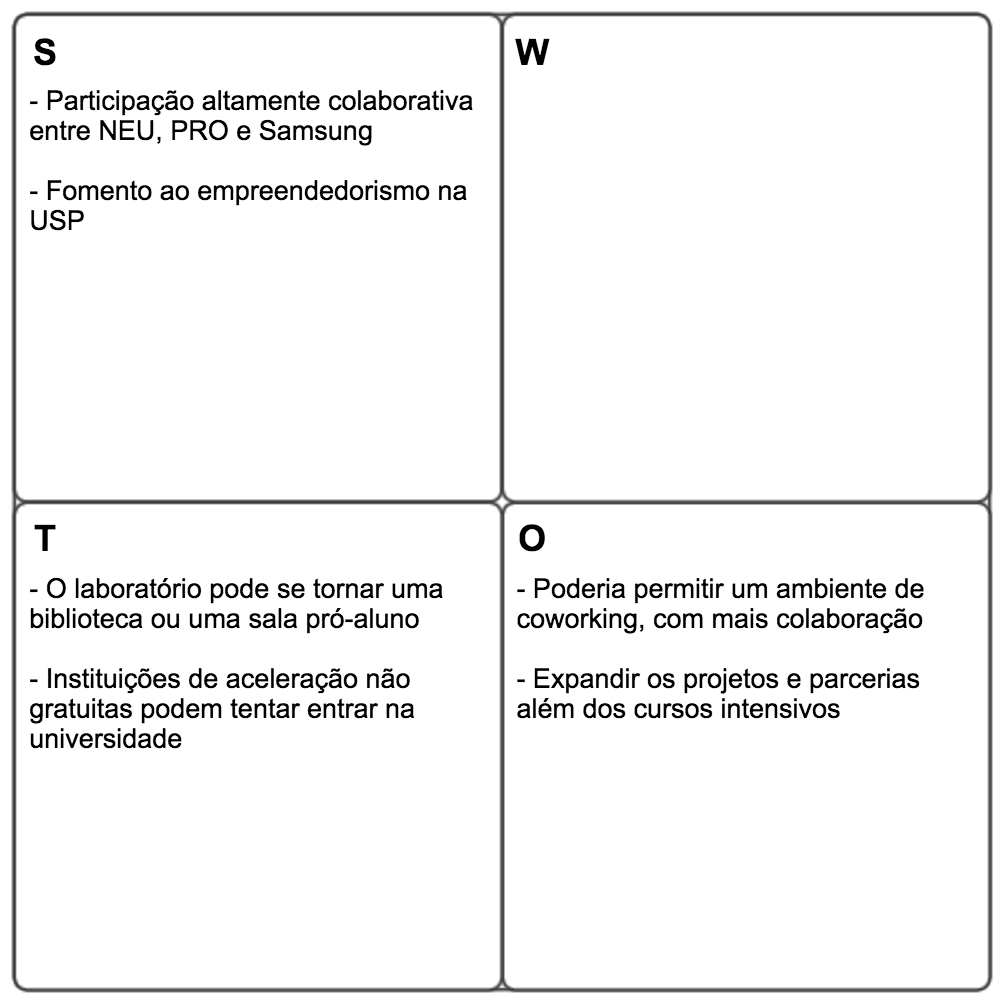
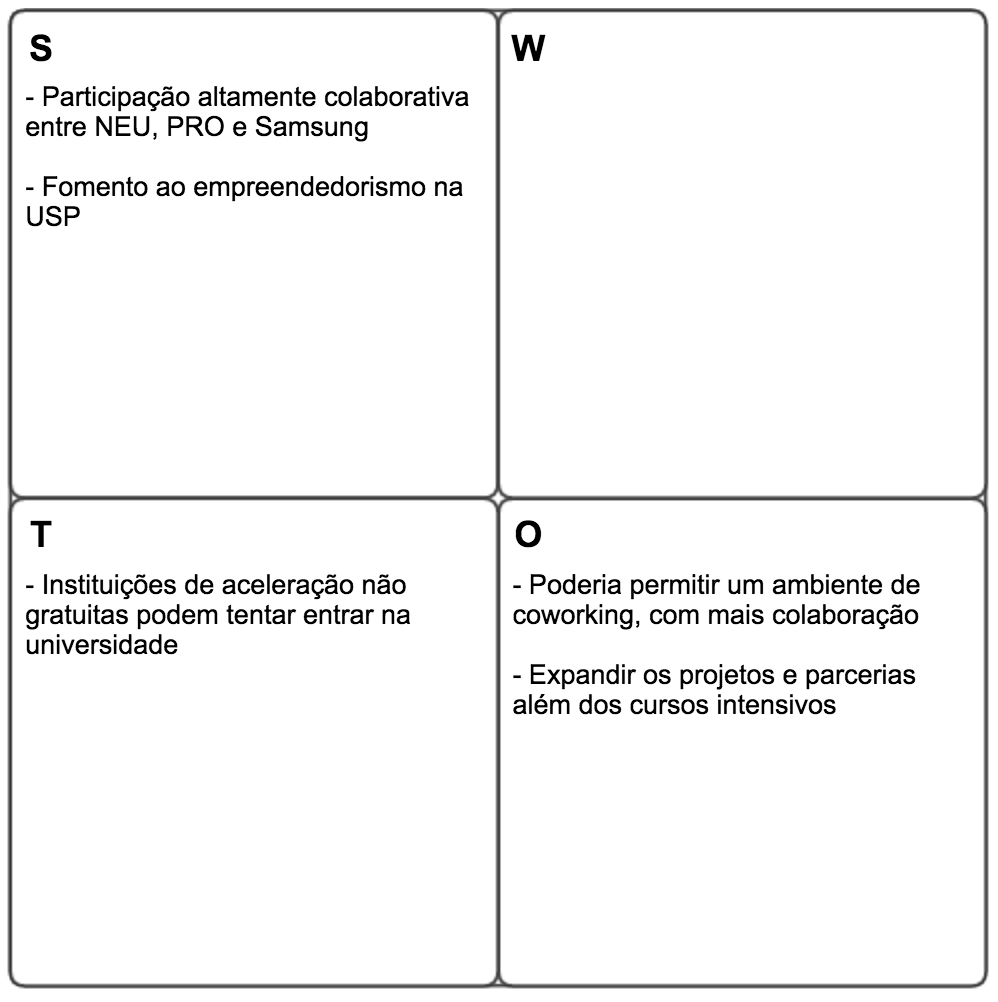
melhorada a definição de prioridades

Changed region(s): [[0.0, 0.0, 0.994, 0.99]]

diff --git a/propostas.tex b/propostas.tex
@@ -1,28 +1,64 @@
 \chapter{Propostas}
 \label{cha:propostas}
 
-Esse capítulo tem como base os elementos de desenvolvimento do programa Ocean levantados no capítulo anterior, e tem como objetivo definir e criar uma proposta de desenvolvimento para um deles. Embora todos os pontos sejam levados até a gestão PRO/Samsung, somente um deles será desenvolvido de forma a ser o suficiente para ilustrar o trabalho sem ultrapassar o seu propósito acadêmico.
+Esse capítulo tem como base as oportunidades, fraquezas e ameaças do programa Ocean levantados no capítulo anterior, e tem como objetivo definir e criar uma proposta de desenvolvimento para um deles. Embora todos os pontos sejam levados até a gestão PRO/Samsung, foram realizado um critério de priorização de forma a selecionar os mais relevantes para serem desenvolvidos.
 
-\section{Definição do elemento de desenvolvimento}
+\section{Análise das oportunidades, fraquezas e ameaças}
 
-Em conjunto com o PRO e a Samsung, foi realizada uma triagem dos pontos a serem desenvolvidos, através de algumas etapas de exclusão e posteriormente de seleção do ponto a ser trabalhado.
+De forma a facilitar a priorização dos pontos a serem trabalhados, as oportunidades, fraquezas e ameaças foram agrupadas em 4 categorias, explicadas a seguir: 
 
 \begin{description}
-\item[Exclusão dos pontos levantados pelos cursistas] - Em relação aos pontos levantados sobre \textit{feedbacks} dos cursistas, será elaborado um relatório executivo com menor teor acadêmico porém mais detalhes diante das análises realizadas. Em relação aos cursos básicos, poderá será feita uma segmentação dos \textit{feedbacks} por ano de realização do questionário ou por tipo de curso dado pelo laboratório. Já para os cursos intensivos, poderão explorados os pontos levantados do ponto de vista de cada grupo, incluindo a identificação de 'frases de efeito' que poderiam ser utilizadas em um material de divulgação do curso. Não obstante, como esses pontos devem ser trabalhados quase que exclusivamente pela gestão da Samsung, serão levantadas questões a respeito de como desenvolver esses pontos, porém eles serão excluídos dentro do contexto desse trabalho.
 
-\item[Exclusão de pontos considerados "passivos"] - Alguns pontos levantados não geram nenhuma ação a ser realizada por parte da gestão do laboratório, pois a gestão já permite o seu desenvolvimento, só faltando oportunidades ou resultados que aparecerão com o tempo. Entre esses pontos estão "Utilização do laboratório para a pós-graduação, na geração de pesquisas", "Maior utilização do laboratório em aulas do departamento", "Expansão dos projetos e parcerias (NEU) além dos cursos intensivos" e "Instituições de aceleração de empresas não-gratuitas podem tentar entrar na universidade". Os três primeiros pontos não apresentam nenhuma barreira para se desenvolverem naturalmente, e são fatores que a gestão acompanhará de perto. O último é considerado pela gestão improvável de acontecer pois com o aumento de instituições de aceleração oferecendo cursos bons gratuitos dentro da universidade, as instituições pagas têm menos incentivo para querer entrar na universidade.
+\item[Pontos "passivos"] - Alguns pontos levantados não geram nenhuma ação a ser realizada por parte da gestão do laboratório, pois a gestão já permite o seu desenvolvimento, só faltando oportunidades ou resultados que aparecerão com o tempo. Entre esses pontos estão "Utilização do laboratório para a pós-graduação, na geração de pesquisas", "Maior utilização do laboratório em aulas do departamento", "Expansão dos projetos e parcerias (NEU) além dos cursos intensivos" e "Instituições de aceleração de empresas não-gratuitas podem tentar entrar na universidade". Os três primeiros pontos não apresentam nenhuma barreira para se desenvolverem naturalmente, e são fatores que a gestão acompanhará de perto. O último é considerado pela gestão improvável de acontecer pois com o aumento de instituições de aceleração oferecendo cursos bons gratuitos dentro da universidade, as instituições pagas têm menos incentivo para querer entrar na universidade.
 
-\item[Exclusão de pontos considerados operacionais] - Os pontos operacionais são aqueles que podem ser corrigidos com alguma ação a ser tomada sem a necessidade de tomar algum decisão considerada estratégica pela gestão. Dentro desses pontos estão "Falta de conhecimento sobre os programas do laboratório", "Falta de instruções sobre o processo de utilização" e "Falta de agenda pública com os compromissos do Ocean". São pontos relevantes, e a gestão deverá fazer algo a respeito deles para maximizar o uso do laboratório pelos alunos.
+\begin{figure}[H]
+\caption{Pontos Passivos}
+\centerline{\includegraphics[scale=0.75]{img/pontosselecionadospassivos}}
+\label{fig:pontosselecionadospassivos}
+\caption* {Fonte: Elaborado pelo próprio autor}
+\end{figure}
+
+\item[Pontos levantados pelos cursistas] - Em relação aos pontos levantados sobre \textit{feedbacks} dos cursistas, será elaborado um relatório executivo com menor teor acadêmico porém mais detalhes diante das análises realizadas. Em relação aos cursos básicos, poderá será feita uma segmentação dos \textit{feedbacks} por ano de realização do questionário ou por tipo de curso dado pelo laboratório. Já para os cursos intensivos, poderão ser explorados os pontos levantados do ponto de vista de cada grupo, incluindo a identificação de 'frases de efeito' que poderiam ser utilizadas em um material de divulgação do curso. Não obstante, como esses pontos devem ser trabalhados quase que exclusivamente pela gestão da Samsung, serão levantadas questões a respeito de como desenvolver esses pontos, porém eles apresentam pouca prioridade para os fins deste trabalho.
+
+\begin{figure}[H]
+\caption{Pontos levantados pelos cursistas}
+\centerline{\includegraphics[scale=0.75]{img/pontosselecionadoscursistas}}
+\label{fig:pontosselecionadoscursistas}
+\caption* {Fonte: Elaborado pelo próprio autor}
+\end{figure}
+
+\item[Pontos considerados operacionais] - Os pontos operacionais são aqueles que podem ser corrigidos com alguma ação a ser tomada sem a necessidade de tomar algum decisão considerada estratégica pela gestão. Dentro desses pontos estão "Falta de conhecimento sobre os programas do laboratório", "Falta de instruções sobre o processo de utilização" e "Falta de agenda pública com os compromissos do Ocean". São pontos relevantes, e a gestão deverá fazer algo a respeito deles para maximizar o uso do laboratório pelos alunos.
+
+\begin{figure}[H]
+\caption{Pontos operacionais}
+\centerline{\includegraphics[scale=0.75]{img/pontosselecionadosoperacionais}}
+\label{fig:pontosselecionadosoperacionais}
+\caption* {Fonte: Elaborado pelo próprio autor}
+\end{figure}
+
+\item[Pontos estratégicos] - Os pontos considerados mais estratégicos são aqueles que podem ser desenvolvidos e transformados em projetos de curto, médio ou longo prazo, e têm potencial de trazer um impacto muito positivo para o Ocean.
+
+\begin{figure}[H]
+\caption{Pontos estratégicos}
+\centerline{\includegraphics[scale=0.75]{img/pontosselecionadosestrategicos}}
+\label{fig:pontosselecionadosestrategicos}
+\caption* {Fonte: Elaborado pelo próprio autor}
+\end{figure}
 
 \end{description}
 
-Após a triagem inicial, restaram-se os seguintes pontos:
+Definidas as categorias, foram definidos níveis de priorização para cada uma, juntamente com a gestão do laboratório Ocean. Foram atribuídas as notas 1, 3, 5 e 7 para as categorias, sendo a nota 1 os pontos prioritários e o 7 o de menor prioridade.
 
-\begin{table}[h]
-\caption{Elementos de desenvolvimento}
-\centerline{\includegraphics[scale=0.75]{img/pontosselecionados}}
-\label{fig:pontosselecionados}
+
+\begin{figure}[H]
+\caption{Priorização de pontos}
+\centerline{\includegraphics[scale=0.75]{img/priorizacao}}
+\label{fig:priorizacao}
 \caption* {Fonte: Elaborado pelo próprio autor}
-\end{table}
+\end{figure}
+
+\section{Desenvolvimento dos pontos prioritários}
+
+Cada um dos pontos 
 
 Os dois primeiros pontos em questão estão sendo avaliados pelo departamento, pois envolvem uma remuneração extra para os professores participarem nesses cursos e uma maior divulgação do laboratório por parte de todos os \textit{stakeholders}, principalmente o NEU e o PRO. Portanto juntamente à gestão do PRO e da Samsung, foi definido que seria desenvolvido o terceiro ponto mencionado, \textbf{"Permitir um ambiente de \textit{coworking}, com mais colaboração"}, pois além de ser uma questão estratégica para o laboratório, ele pode evitar o problema de o laboratório se tornar uma biblioteca ou uma pró-aluno.

diff --git a/analises.tex b/analises.tex
@@ -298,19 +298,27 @@ A partir das conversas com os cursistas, foi obtida a seguinte análise:
 
 \subsection{Análise Geral}
 
-Após conversar e analisar todos os \textit{stakeholders}, é possível observar que todos estão muitos satisfeitos com o Laboratório Ocean em seu estado atual, principalmente por ser um projeto em fase inicial, o que evidencia muito as melhorias diante do estado anterior, sem o laboratório. Acredita-se que com o passar do tempo e com as interações entre os diferentes \textit{stakeholders} forem aumentando, alguns conflitos surgirão e maiores insatisfações irão aparecer.
+Após conversar e analisar todos os \textit{stakeholders}, é possível observar que todos estão muitos satisfeitos com o Laboratório Ocean em seu estado atual, principalmente por ser um projeto em fase inicial, o que evidencia muito as melhorias diante do estado anterior no qual o laboratório não estava presente. Acredita-se que com o passar do tempo e com as interações entre os diferentes \textit{stakeholders} forem aumentando, alguns conflitos surgirão e maiores insatisfações irão aparecer.
 
-De forma geral, os pontos fortes levantados nas análises representam as qualidades que os \textit{stakeholders} acreditam ser importantes para o laboratório, e vão de acordo com a proposta de valor que tanto a Samsung quanto o PRO desejam oferecer aos alunos e à comunidade. Dessa forma, será elaborada um proposta para solucionar alguns dos problemas elencados como fraquezas ou ameaças ou para desenvolver alguma das oportunidades mencionadas.
+De forma geral, os pontos fortes levantados nas análises representam as qualidades que os \textit{stakeholders} acreditam ser importantes para o laboratório, e vão de acordo com a proposta de valor que tanto a Samsung quanto o PRO desejam oferecer aos alunos e à comunidade. Dessa forma, todos esses pontos fortes devem ser mantidos em mente para permitir a validação de mudanças estratégicas ou operacionais realizadas pela gestão do laboratório sem que os \textit{stakeholders} sejam prejudicados.
 
-A partir das análises realizadas anteriormente, foi possível obter uma série de pontos que poderiam ser desenvolvidos de forma a obter uma satisfação ainda maior dos \textit{stakeholders} do projeto, e podem ser vistos na tabela \ref{fig:elementosdedesenvolvimento}, que será usado como base inicial para a definição do elemento a ser desenvolvido. 
+Todos os pontos levantados remanescentes - oportunidades, fraquezas e ameaças - foram utilizados para definir uma proposta para o laboratório, de acordo com as seguintes definições:
+
+\begin{description}
+\item[Oportunidades] - Representam pontos com possibilidade de exploração
+\item[Fraquezas] - Representam pontos com possibilidade de melhoria
+\item[Ameaças] - Representam pontos com possibilidade de mitigação
+\end{description}
+
+Todos esses pontos podem ser vistos na Figura  \ref{fig:elementosdedesenvolvimento}, que será usada como base inicial para a definição de uma proposta para este trabalho. 
 
 \begin{landscape}
 
-\begin{table}[h]
-\caption{Elementos de desenvolvimento do programa Ocean}
-\centerline{\includegraphics[scale=0.3]{img/teste23}}
-\label{fig:elementosdedesenvolvimento}
+\begin{figure}
+\caption{Síntese das Oportunidades, Fraquezas e Ameaças}
+\centerline{\includegraphics[scale=0.6]{img/oportunidadesfraquezasameacas}}
+\label{fig:oportunidadesfraquezasameacas}
 \caption* {Fonte: Elaborado pelo próprio autor}
-\end{table}
+\end{figure}
 
 \end{landscape}
